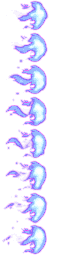
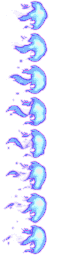
Flamethrower change (hopefully)

diff --git a/mima/files.js b/mima/files.js
@@ -1,9 +1,9 @@
 {
 	"patch.js": 4122046975,
-	"th14/player/pl01/Thumbs.db": 2437156437,
+	"th14/player/pl01/Thumbs.db": 483431336,
 	"th14/player/pl01/pl01.png": 3680385520,
 	"th14/player/pl01/pl01b.png": 1481901219,
 	"th14/player/pl01/pl01b2.png": 267757438,
-	"th14/player/pl01/pl01f.png": 4085275487,
+	"th14/player/pl01/pl01f.png": 1358841024,
 	"th14/player/pl01/pl01g.png": 827709581
 }
